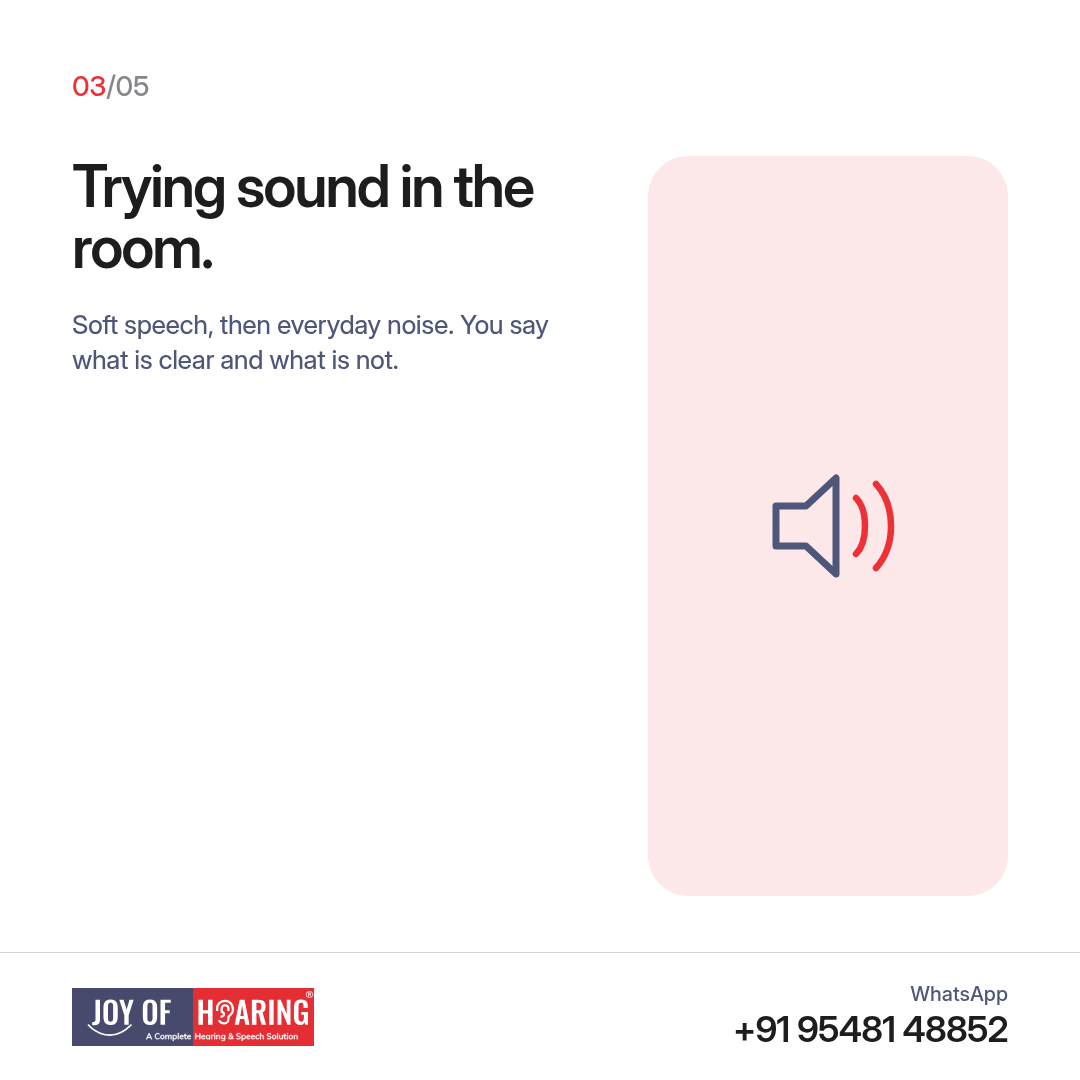
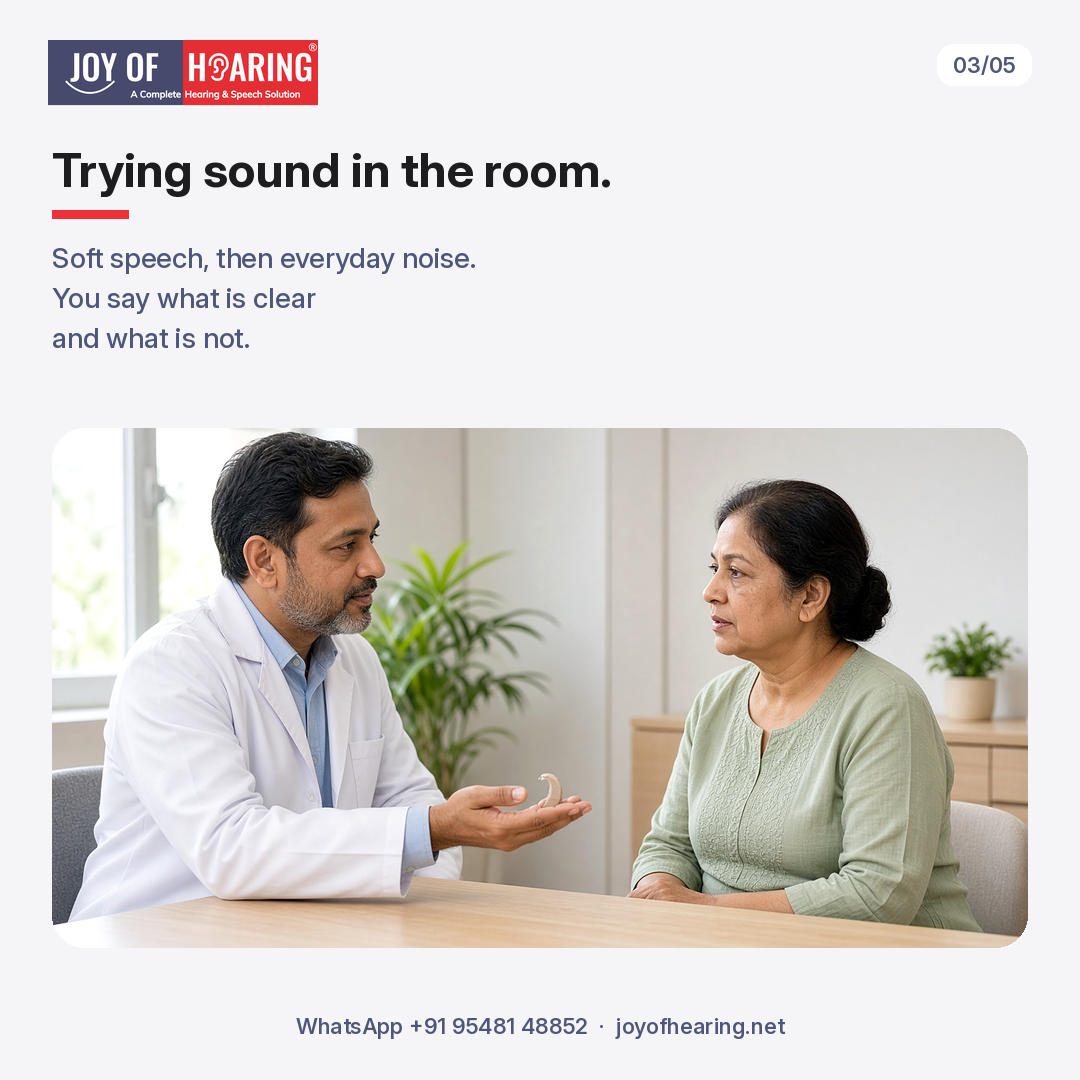
Replace the first fitting visit illustrations and alt text
Swap the five published fitting-visit frames for the approved PNGs and update only those image descriptions.

diff --git a/src/content/blogs/what-happens-at-your-first-hearing-aid-fitting-visit.md b/src/content/blogs/what-happens-at-your-first-hearing-aid-fitting-visit.md
@@ -11,7 +11,7 @@ A hearing aid fitting is not a product demo. It is a calm visit where we match s
 
 Most people arrive after a hearing assessment. Some already wear aids that no longer feel right. Either way, the visit is paced. You stay seated. You say what sounds sharp, soft, or distant. The goal is comfort and clarity, not a hurried sale.
 
-![A sound-wave and magnifying glass beside “Your first fitting visit.”](../../assets/blogs/blog_hearing-aid-fitting_1.png)
+![A woman sits with a doctor beside “Your first fitting visit.”](../../assets/blogs/blog_hearing-aid-fitting_1.png)
 
 ## Before the aids go on
 
@@ -19,7 +19,7 @@ Bring your latest hearing report if you have one. Tell us where talk is hardest:
 
 We also check the ear canal and how the shell or soft tip sits. A poor fit can make sound whistle or feel blocked. Sorting that early saves frustration later.
 
-![Three places talk is hardest: home, a shop or market, and a wedding hall.](../../assets/blogs/blog_hearing-aid-fitting_2.png)
+![An older man and a woman at a clinic table with a blank report, beside home, a shop, and a wedding hall.](../../assets/blogs/blog_hearing-aid-fitting_2.png)
 
 ## Trying sound in the room
 
@@ -27,7 +27,7 @@ Once the aids are on, we start with soft speech, then add everyday noise. You te
 
 If something feels too sharp or too quiet, say so in the moment. Small changes in the room are easier than guessing alone at home that evening.
 
-![A speaker icon beside “Trying sound in the room.”](../../assets/blogs/blog_hearing-aid-fitting_3.png)
+![A doctor holds a hearing aid toward a woman beside “Trying sound in the room.”](../../assets/blogs/blog_hearing-aid-fitting_3.png)
 
 ## Fine-tuning takes a few visits
 
@@ -35,7 +35,7 @@ The first setting is a start, not the final answer. Real life is louder and mess
 
 If wax builds up, or if the tip no longer sits well, we sort that before we chase more programme changes. Comfort comes first.
 
-![Two sliders beside “Fine-tuning takes a few visits.”](../../assets/blogs/blog_hearing-aid-fitting_4.png)
+![Hands fit a behind-the-ear hearing aid beside “Fine-tuning takes a few visits.”](../../assets/blogs/blog_hearing-aid-fitting_4.png)
 
 ## What you practise at home
 
@@ -45,6 +45,6 @@ We show you how to put the aids on, take them off, and keep them dry and clean. 
 
 At Joy of Hearing, hearing aid fitting and follow-up fine-tuning are available across 11 branches in Punjab.
 
-![“Ready when you are.” and a button to book a hearing aid fitting.](../../assets/blogs/blog_hearing-aid-fitting_5.png)
+![A woman at reception, with “Ready when you are.” and a button to book a hearing aid fitting.](../../assets/blogs/blog_hearing-aid-fitting_5.png)
 
 Call or WhatsApp us at +91 95481 48852 or visit joyofhearing.net to book your hearing aid fitting today.
